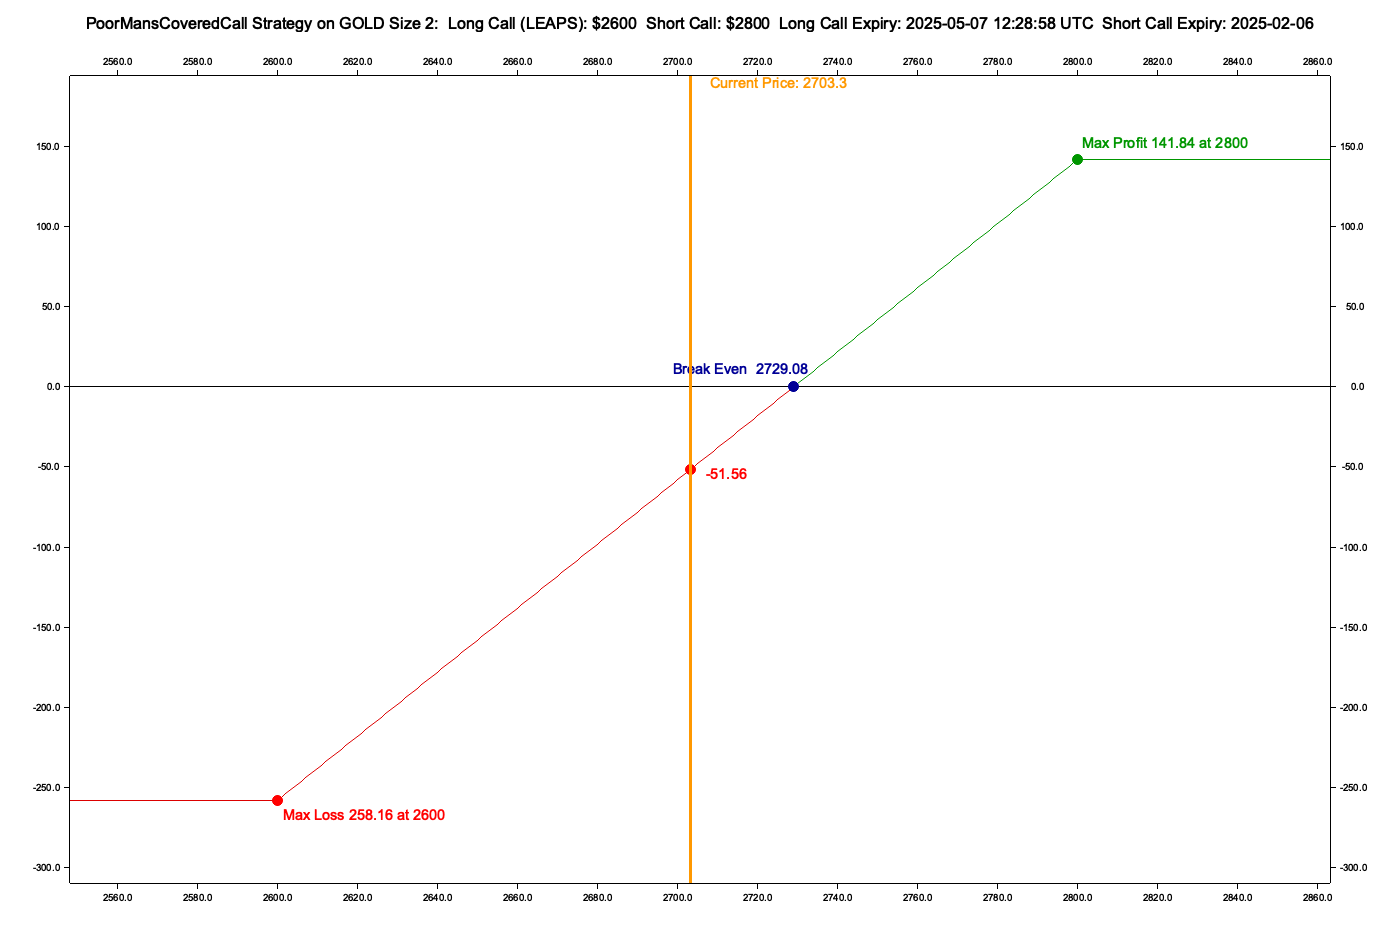
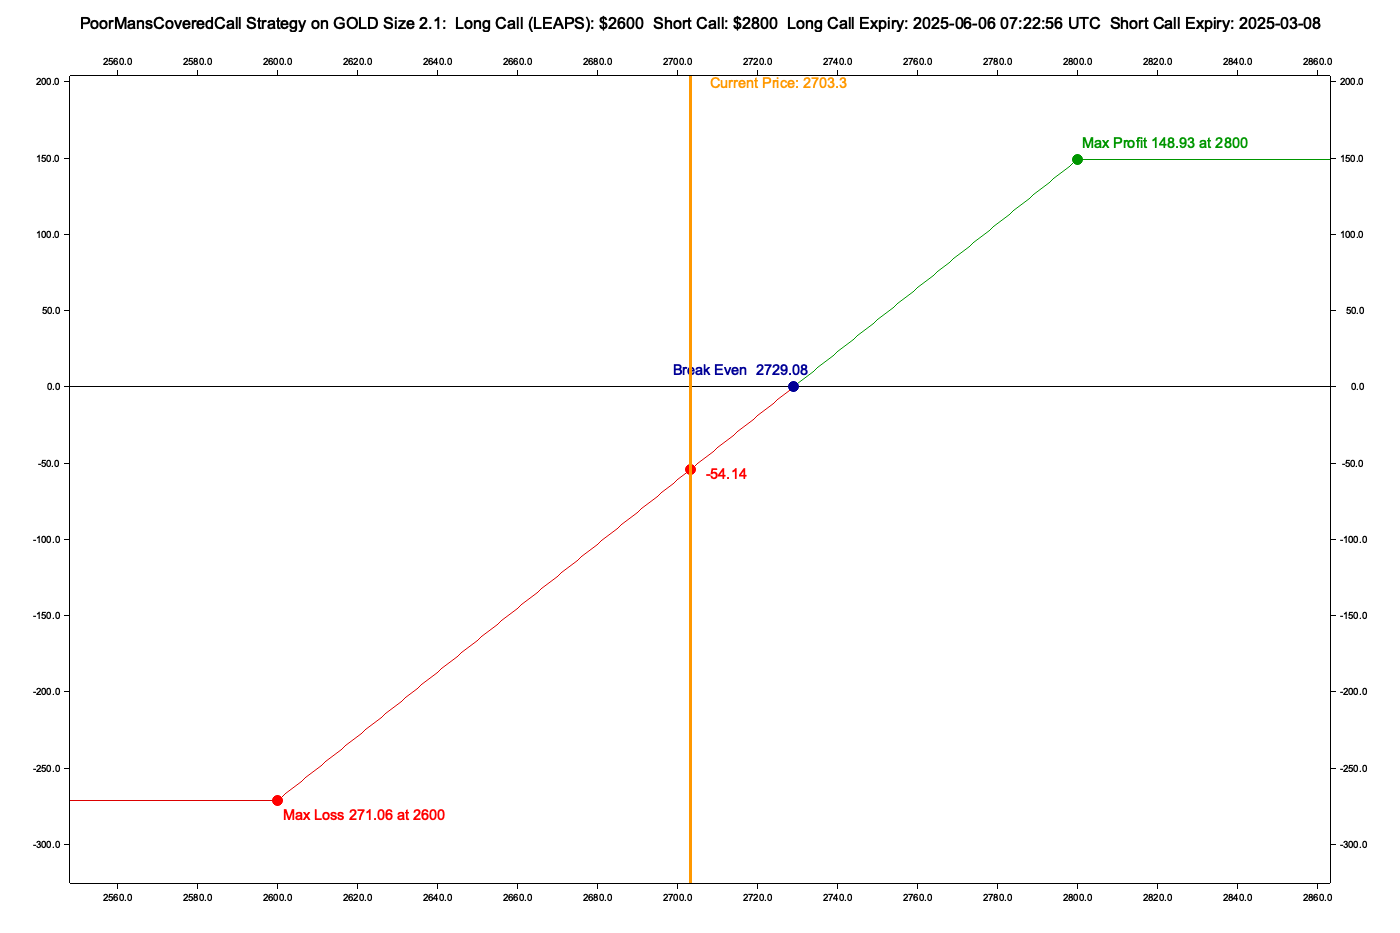
Refactor break-even point calculation in strategy logic
Extracted break-even point logic into a new `update_break_even_points` method for clarity and reusability. Adjusted the example to reflect updated functionality and recalculation. Updated the associated profit-loss chart to align with the changes.

diff --git a/src/strategies/poor_mans_covered_call.rs b/src/strategies/poor_mans_covered_call.rs
@@ -158,11 +158,9 @@ impl PoorMansCoveredCall {
             .add_position(&short_call.clone())
             .expect("Invalid short call option");
 
-        let net_debit = strategy.net_cost().unwrap() / quantity;
-
         strategy
-            .break_even_points
-            .push(long_call_strike + net_debit);
+            .update_break_even_points()
+            .expect("Unable to update break even points");
         strategy
     }
 }
@@ -170,6 +168,18 @@ impl PoorMansCoveredCall {
 impl BreakEvenable for PoorMansCoveredCall {
     fn get_break_even_points(&self) -> Result<&Vec<Positive>, StrategyError> {
         Ok(&self.break_even_points)
+    }
+
+    fn update_break_even_points(&mut self) -> Result<(), StrategyError> {
+        self.break_even_points = Vec::new();
+
+        let net_debit = self.net_cost()? / self.long_call.option.quantity;
+
+        self.break_even_points.push(
+            (self.long_call.option.strike_price + net_debit).round_to(2)
+        );
+
+        Ok(())
     }
 }
 

diff --git a/examples/examples_strategies/src/bin/strategy_poor_mans_covered_call.rs b/examples/examples_strategies/src/bin/strategy_poor_mans_covered_call.rs
@@ -31,7 +31,7 @@ fn main() -> Result<(), Box<dyn Error>> {
         pos!(0.17),                        // implied_volatility
         dec!(0.05),                        // risk_free_rate
         Positive::ZERO,                    // dividend_yield
-        pos!(2.0),                         // quantity
+        pos!(2.1),                         // quantity
         pos!(154.7),                       // premium_short_call
         pos!(30.8),                        // premium_short_put
         pos!(1.74),                        // open_fee_short_call
